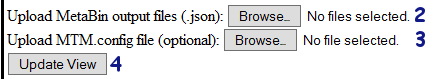
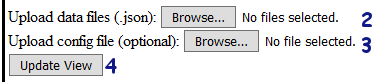
Update Documentation

diff --git a/html/documentation.htm b/html/documentation.htm
@@ -68,7 +68,7 @@
 							<li><a href="#tabular">Tabular</a></li>
 						</ol>
 					</li>
-					<li><a href="#configuration">Configuration</a></li>
+					<li><a href="#config">Config file</a></li>
 				</ol>
 			</li>
 			<li><a href="#treemap">Treemap view</a>
@@ -84,7 +84,7 @@
 				</ol>
 			</li>
 			<li><a href="#table">Table view</a>
-				<ol><li><a href="#longname">Long name</a></li>
+				<ol><li><a href="#infobox">Infobox</a></li>
 					<li><a href="#collapse">Collapse</a></li>
 					<li><a href="#focus">Focus</a></li>
 					<li><a href="#taxonid">Taxon ID</a></li>
@@ -113,12 +113,11 @@
 					</li>
 				</ol>
 			</li>
-			<li><a href="#layout">Layout</a>
+			<li><a href="#configuration">Configuration</a>
 				<ol><li><a href="#views">Views</a></li>
 					<li><a href="#dimensions">Dimensions</a></li>
 					<li><a href="#optionsbar">Option bar</a></li>
-					<li><a href="#place">Place</a></li>
-					<li><a href="#pattern">Pattern</a></li>
+					<li><a href="#settings">Settings</a></li>
 					<li><a href="#update">Update</a></li>
 				</ol>
 			</li>
@@ -126,7 +125,7 @@
 				<ol><li><a href="#json">Tree</a></li>
 					<li><a href="#png">TreeMap</a></li>
 					<li><a href="#txt">Table</a></li>
-					<li><a href="#config">Config</a></li>
+					<li><a href="#configout">Config</a></li>
 				</ol>
 			</li>
 		</ol>
@@ -168,7 +167,9 @@
 	That display a form to proceed the conversion.
 	</p>
 	<img src="../img/guide-1.3.png" alt="convert" />
-	<ul><li>Select your format. (see 6)</li></ul>
+	<ul><li>Select your format. (see 6)</li>
+		<li>Select your data file. (see 7)</li>
+		</ul>
 	
 	<h4 id="json">Json</h4>
 	<img src="../img/guide-1.3.1.png" alt="json" />
@@ -178,10 +179,10 @@
 		<li>Hits: number, quantity used to calculate the area of the rectangles</li>	
 	</ul>
 	You can specify the "path" of each field to fit with your json file. (The example above show path for MetaBin's json specification)
-	<ul><li>Specify "Taxon id" path (see 7)</li>
-		<li>Specify "Taxon name" path (see 8)</li>
-		<li>Specify "Hits" path (see 9)</li>
-		<li>Click on "Convert" (see 11)</li>
+	<ul><li>Specify "Taxon id" path (see 8)</li>
+		<li>Specify "Taxon name" path (see 9)</li>
+		<li>Specify "Hits" path (see 10)</li>
+		<li>Click on "Convert" (see 12)</li>
 		<li>Save the file that is generated</li>
 		<li>Refers to section <a href="#standard">Standard file</a> to visualize your data.</li>
 	</ul>
@@ -198,56 +199,57 @@
 		<li>Hits: number. Quantity used to calculate the area of the rectangles</li>	
 	</ul>
 	You can specify the index of column of each field to fit with your table (notice that column A is indexed "1"). In addition you can specify if the first line of your table is a header or the first node.
-	<ul><li>Specify "Taxon id" index (see 7)</li>
-		<li>Specify "Taxon name" index (see 8)</li>
-		<li>Specify "Hits" index (see 9)</li>
-		<li>Specify if MTM must ignore the first line (see 10)</li>
-		<li>Click on "Convert" (see 11)</li>
+	<ul><li>Specify "Taxon id" index (see 8)</li>
+		<li>Specify "Taxon name" index (see 9)</li>
+		<li>Specify "Hits" index (see 10)</li>
+		<li>Specify if MTM must ignore the first line (see 11)</li>
+		<li>Click on "Convert" (see 12)</li>
 		<li>Save the file that is generated</li>
 		<li>Refers to section <a href="#standard">Standard file</a> to visualize your data.</li>
 	</ul>
 	</p>
 	<a href="#top"><span class="fa fa-arrow-up"></span>Back</a>
 	
-	<h3 id="configuration">Configuration</h3>
+	<h3 id="config">Configuration</h3>
 	<img src="../img/guide-1.4.png" alt="config" />
 	<p>In addition of data files, you can import a configuration file. This configuration can be save from a previews analyze (see <a href="#config">Config</a> for additional information), or edited manually. It consist to a list of parameters that set layout and options for MTM.</p>
-	<ul><li>layout
-		<ul><li>treemap
-			<ul><li>show: yes | no (display treemap)</li>
-				<li>width: [number] (width of treemap, in pixel)</li>
-				<li>height: [number] (height of treemap, in pixel)</li>
-				<li>option: yes | no (link menu to treemap)</li>
-				<li>place: top | left | center | right | bottom (position of treemap on the web page)</li>
-			</ul></li>
-			<li>table
-			<ul><li>show: yes | no (display table)</li>
-				<li>width: [number] (width of table, in pixel)</li>
-				<li>height: [number] (height of table, in pixel)</li>
-				<li>option: yes | no (link menu to table)</li>
-				<li>place: top | left | center | right | bottom (position of table on the web page)</li>
-			</ul></li>
-			<li>options
-			<ul><li>show: yes | no (display options menu)</li>
-				<li>width: [number] (width of options menu, in pixel)</li>
-				<li>option: yes | no (create option menu)</li>
-				<li>place: top | left | center | right | bottom (position of options menu on the web page)</li>
-			</ul></li>
+	<ul><li>bar
+		<ul><li>display: true |false (display options bar)</li>
+			<li>location: top | left | center | right | bottom (position of the bar on the web page)</li>
+			<li>width: [number] (width of bar, in pixel)</li>	
 		</ul></li>
-		<li>mtm
-		<ul><li>pattern: [pseudo code] (expression pattern for labelling the nodes of treemap - see <a href="#pattern">Pattern</a> for additional information)</li>
-			<li>group: taxon | rank | sample | max (group parameter for taxa colors - see <a href="#colors">Colors</a> for additional information)</li>
+		<li>configuration
+		<ul><li>display: true |false (display configuration tab)</li>
+			<li>location: config (position of the tab on the web page)</li>
+		</ul></li>
+		<li>treemap
+		<ul><li>display: true |false (display treemap view)</li>
+			<li>location: top | left | center | right | bottom (position of the view on the web page)</li>
+			<li>width: [number] (width of view, in pixel)</li>	
+			<li>height: [number] (height of view, in pixel)</li>
+			<li>options: true | false (add options bar to view)</li>
+		</ul></li>
+		<li>table
+		<ul><li>display: true |false (display table view)</li>
+			<li>location: top | left | center | right | bottom (position of the view on the web page)</li>
+			<li>width: [number] (width of view, in pixel)</li>	
+			<li>height: [number] (height of view, in pixel)</li>
+			<li>options: true | false (add options bar to view)</li>
+		</ul></li>
+			<li>options
+		<ul><li>color: taxon | rank | sample | max (define taxa colors - see <a href="#colors">Colors</a> for additional information)</li>
 			<li>rank: [phylogenic rank] (see <a href="#phylogenic">Phylogenic rank</a> for additional information)</li>
-			<li>labels: on | off (labels treemap according to leaves or rank respectively)</li>
-			<li>upper: on | off (colored or grayed upper rank respectively)</li>
+			<li>label: taxon | rank (labels treemap according to leaves or rank respectively)</li>
+			<li>upper: color | gray (colored or grayed upper rank respectively)</li>
 			<li>font: [number] (font size in point)</li>
 			<li>palette: 12 | 20 (number of colors in the palette)</li>
 			<li>background: black | white (color of treemap background)</li>
 			<li>size: norm | hits | nodes (see <a href="#size">Size parameter</a> for additinal information)</li>
+			<li>pattern: [pseudo code] (expression pattern for labelling the nodes of treemap - see <a href="#pattern">Pattern</a> for additional information)</li>
 		</ul></li>
 	</ul>
 	The file must be in JSON format. The default configuration file (mtm-config.json) is :
-	<div class="code">{"layout":{"treemap":{"show":"yes","width":"800","height":"600","option":"yes","place":"left"},"table":{"show":"yes","width":"600","height":"600","option":"no","place":"right"},"options":{"show":"no","width":"800","option":"no","place":"bottom"}},"mtm":{"pattern":"#N","group":"taxon","labels":"on","upper":"on","font":"14","palette":"12","background":"black","size":"norm"}}</div>
+	<div class="code">{"bar":{"display":false,"location":"bottom","width":600},"configuration":{"display":true,"location":"config"},"treemap":{"display":true,"location":"left","width":800,"height":600,"options":true},"table":{"display":true,"location":"right","width":700,"height":"650","options":false},"options":{"color":"taxon","rank":"null","label":"taxon","upper":"color","font":"14","palette":"12","background":"black","mode":"norm","pattern":"#N"}}</div>
 	<br/><a href="#top"><span class="fa fa-arrow-up"></span>Back</a>
 	
 	<h2 id="treemap">Treemap View</h2>
@@ -330,10 +332,11 @@
 	</p>
 	<a href="#top"><span class="fa fa-arrow-up"></span>Back</a>
 	
-	<h3 id="longname">Long Name</h3>
-	<p>By default, taxon name that cannot be displayed at one line is truncated. On mouse over the line, it is selected and a tooltip display the full taxon name.</p>
+	<h3 id="infobox">Infobox</h3>
+	<p>By default, taxon name that cannot be displayed at one line is truncated. On mouse over the line, a tooltip popup and displayed additional information about the selected node. (see the section <a href="#tooltip">Tooltip</a> for addictional information)
+	</p>
 	<img src="../img/guide-3.1.png" alt="lineover"/>
-	<p>We notice that the corresponding rectangle in treemap view is also selected (see the section <a href="#tooltip">Mouseover</a> for addictional information).
+	<p>We notice that the corresponding rectangle in treemap view is also selected.
 	</p>
 	<a href="#top"><span class="fa fa-arrow-up"></span>Back</a>
 	
@@ -479,60 +482,55 @@
 	<br/>
 	<a href="#top"><span class="fa fa-arrow-up"></span>Back</a>
 	
-	<h2 id="layout">Layout</h2>
-	<img src="../img/guide-5.0.png" alt="layout"/>
-	<p>MTM displays tree different elements (module) :
-	<ul><li>The <a href="#treemap">treemap view</a></li>
-		<li>The <a href="#table">table view</a></li>
-		<li>The <a href="#options">options bar</a></li>
+	<h2 id="configuration">Configuration</h2>
+	<img src="../img/guide-5.0.png" alt="configuration"/>
+	<p>MTM displays different elements (module).
+	<ul><li>Option bar (see 1)</li>
+		<li>Configuration form (see 2)</li>
+		<li>Treemap view (see 3)</li>
+		<li>Table view (see 4)</li>
 	</ul>
-	</p>
 	<a href="#top"><span class="fa fa-arrow-up"></span>Back</a>
 	
 	<h3 id="views">Views</h3>
-	<p>Each module can be displayed or not by checking the corresponding box in layout menu (see 1).</p>
+	<p>Each module can be displayed by checking the correspondig box.
+	<br/>In addition, a module is assigned to a HTML container (div) by specify the id of the container in the location field.
+	<br/>The MTM web page is divided in 5 containers that can be used to customized the layout of the views : </p>
+		<table border=1 style="text-align:center">
+			<tr><td colspan="3">top</td></tr>
+			<tr><td>left</td>
+				<td>center</td>
+				<td>right</td>
+			</tr>
+			<tr><td colspan="3">bottom</td></tr>
+		</table>
 	<a href="#top"><span class="fa fa-arrow-up"></span>Back</a>
 	
 	<h3 id="dimensions">Dimensions</h3>
-	<p>Treemap view and table view will be displayed according to the respective width and height parameter (see 2). Option bar have only width parameter.</p>
+	<p>Treemap view and table view will be displayed according to the respective width and height parameter. Option bar have only width parameter.</p>
 	<a href="#top"><span class="fa fa-arrow-up"></span>Back</a>
 	
-	<h3 id="optionsbar">Option bar</h3>
-	<p>By default, the option bar is linked inside treemap view. By changing the radio button (see 3), The option bar can be linked inside table view, or displayed outside the views.</p>
+	<h3 id="optionsbar">Options bar</h3>
+	<p>The options bar can be display in a separate container (see 1) and/or in the same container than a view (see 3 and 4 "options")</p>
 	<a href="#top"><span class="fa fa-arrow-up"></span>Back</a>
 	
-	<h3 id="place">Place</h3>
-	<p>The MTM web page is divided in boxes : </p>
-		<table border=1 style="text-align:center">
-			<tr><td colspan="3">Top</td></tr>
-			<tr><td>Left</td>
-				<td>Center</td>
-				<td>Right</td>
-			</tr>
-			<tr><td colspan="3">Bottom</td></tr>
-		</table>
-	<p>Each module can be assigned to a box using "place" parameter (see 4).</p>
-	<a href="#top"><span class="fa fa-arrow-up"></span>Back</a>
-	
-	<h3 id="pattern">Pattern</h3>
-	<p>By default, the rectangles of the <a href="#treemap">treemap view</a> are labelled by taxon name. This can be customize using a pattern (see 5). Fields are indicated by "# Code".</p>
+	<h3 id="settings">Settings</h3>
+	<p>The options from the bar can be set in the configuration tab.
+	<br/>In addition, the labels of the <a href="#treemap">treemap view</a> (taxon name by default), can be customized using a pattern (see 6). Fields are indicated by "# Code".
 	<ul><li>#N for taxon name,</li>
 		<li>#I for taxon id,</li>
 		<li>#H for assigned hits,</li>
-		<li>#R for Phylogenic rank,</li>
+		<li>#R for phylogenic rank,</li>
 		<li>#S for sample number.</li>
 		<li>#P for percentages of hits according to the sample (see the section <a href="#zoom">Zoom</a> for additional information),</li>
 		<li>#V for percentages of hits according to the current view (see the section <a href="#size">Size parameter</a> for additional information),</li>
 	</ul>
-	<p>Other character can be added without restriction.</p>
-	<div class="code">#N-##S</div>
-	<p>
-	<img src="../img/guide-5.5.png" alt="pattern"/>
-	</p>
+	Other character can be added without restriction.</p>
+	<div class="code">#N-#S [#H]</div>
 	<a href="#top"><span class="fa fa-arrow-up"></span>Back</a>
 	
 	<h3 id="update">Update</h3>
-	<p>The modifications of the layout will be applied when "Update View" will be clicked (see 6).</p>
+	<p>The modifications of the layout will be applied when "Update View" will be clicked (see 7).</p>
 	<a href="#top"><span class="fa fa-arrow-up"></span>Back</a>
 	
 	<h2 id="export">Export data</h2>
@@ -554,8 +552,8 @@
 	<p>The table view can be exported as a tabular separated value in txt format, that is like a spreadsheet and can open with your favourite software (Calc, Excel...)</p>
 	<a href="#top"><span class="fa fa-arrow-up"></span>Back</a>
 	
-	<h3 id="config">Config</h3>
-	<p>The configuration can be save as a JSON file. It is compose of a list of parameters like layout settings and color group options. See <a href="#configuration">Configuration</a> for additional information.</p>
+	<h3 id="configout">Config</h3>
+	<p>The configuration can be save as a JSON file. It is compose of a list of parameters like layout settings and color group options. See <a href="#config">Configuration</a> for additional information.</p>
 	<a href="#top"><span class="fa fa-arrow-up"></span>Back</a>
 	
 	<script type="text/javascript">

diff --git a/js/mtm.js b/js/mtm.js
@@ -792,8 +792,14 @@ if(verbose){console.time("config");}
 				e.append("option").attr("value","nodes").text("nodes");
 				e.node().value=config[i].mode;
 			}
-			
+			if(config[i].hasOwnProperty("pattern")) {
+				var row = part.append("tr")
+				row.append("td").text("pattern")
+				var e = row.append("td").append("input").attr("type","text").attr("id",i+"_pattern").style("width","120px").on("change",function(){return configChange(this);});
+				e.attr("value",config[i].pattern);
+			}
 		}
+		loc.append("div").style("display","inline-block").style("vertical-align","top").append("p").html("<b>Pattern keys</b><br/>#N: name<br/>#I: id<br/>#H: hits<br/>#R: rank<br/>#S: sample<br/>#P: % by sample<br/>#V: % by view").style("margin","0px");
 		loc.append("input").attr("type","button").attr("value","Update view").on("click",function(){return setLayout();});
 
 if(verbose){console.timeEnd("config");}
@@ -1134,7 +1140,7 @@ if(verbose){console.time("setColorTable");}
 						subs=[];
 					}
 					//Descendant
-					else if (rank<d.depth-1) {
+					else if (rank<d.depth-1 && rank>-1) {
 							subs.push(lines[0][i]);
 					}
 					//Initial color
